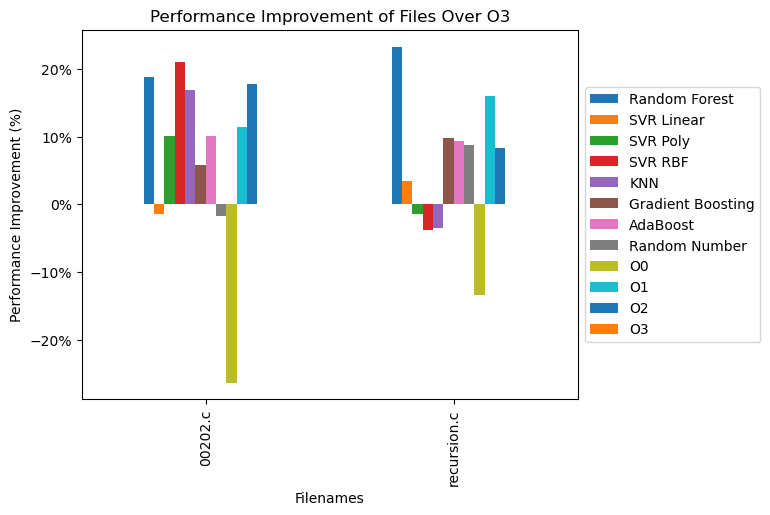
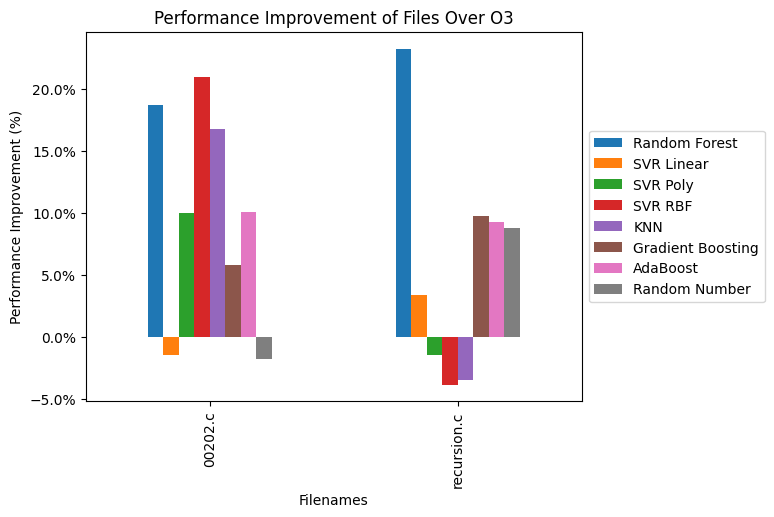
Update visualization script in demo

diff --git a/demo/scripts/visualization_demo.py b/demo/scripts/visualization_demo.py
@@ -9,14 +9,16 @@ os.makedirs("../figures",exist_ok=True)
 path = os.path.join(os.getcwd(), 'results.csv')
 df = pd.read_csv(path)
 figsize = (10, 6)  # Define a variable for the figure size
-include_opts = True  # Include optimization levels in the plots
+include_opts = False  # Include optimization levels in the plots
 
 # Set the index to 'Filename' for easier plotting
-df.set_index('Filename', inplace=True)
+df.set_index('Filename', inplace=True)  
 
 # Plot with filenames as x-axis for raw times
+df2 = df
+df2 = df2.drop(columns=['O0', 'O1', 'O2', 'O3']).iloc[:, :]
 plt.figure(figsize=figsize)  # Use the figure size variable
-df.plot(kind='bar')
+df2.plot(kind='bar')
 plt.xlabel('Filenames')
 plt.ylabel('Raw Times')
 plt.title('Raw Times of Files')
@@ -24,29 +26,20 @@ plt.legend(loc='center left', bbox_to_anchor=(1.0, 0.5))
 plt.savefig('../figures/BarGraph_Files_RawTimes.png', bbox_inches='tight')
 plt.close()
 with open('../figures/BarGraph_Files_RawTimes.md', 'w') as md_file:
-    md_file.write(df.to_markdown())
+    md_file.write(df2.to_markdown())
 
-# Calculate percent change compared to O0, O1, O2, O3 times
-df_o0_o3 = (df.div(df[['O0', 'O1', 'O2', 'O3']].mean(axis=1), axis=0) - 1) * -1
-
-# Calculate mean and median performance improvement for each model
-# Remove the last 4 colums (O0, O1, O2, O3)
-if include_opts:
-    mean_improvement = df_o0_o3.iloc[:, :].mean() * 100
-    median_improvement = df_o0_o3.iloc[:, :].median() * 100
-else:
-    mean_improvement = df_o0_o3.iloc[:, :-4].mean() * 100
-    median_improvement = df_o0_o3.iloc[:, :-4].median() * 100
-
-# Create a new DataFrame for the mean and median improvement
-df_improvement = pd.DataFrame({'Mean': mean_improvement, 'Median': median_improvement})
 
 # Optimization levels to compare against
 optimization_levels = ['O3']
 for opt_level in optimization_levels:
     # Calculate percent change compared to the optimization level
     df_opt = (df.div(df[opt_level], axis=0) - 1) * -1
-
+    
+    if include_opts:
+        df_opt = df_opt.drop(columns=[opt_level]).iloc[:, :]
+    else:
+        df_opt = df_opt.drop(columns=['O0', 'O1', 'O2', 'O3']).iloc[:, :]
+    
     # Calculate percent change compared to O3 times
     plt.figure(figsize=figsize)  # Use the figure size variable
     df_o3 = df_opt * 100
@@ -60,5 +53,33 @@ for opt_level in optimization_levels:
     plt.close()
     with open(f'../figures/BarGraph_Files_{opt_level}.md', 'w') as md_file:
         md_file.write(df_o3.to_markdown())
+        
+    # Remove the optimization level column (O0, O1, O2, O3)
+    if include_opts:
+        mean_improvement = df_opt.drop(columns=[opt_level]).iloc[:, :].mean() * 100
+        median_improvement = df_opt.drop(columns=[opt_level]).iloc[:, :].median() * 100
+    else:
+        mean_improvement = df_opt.iloc[:, :-4].mean() * 100
+        median_improvement = df_opt.iloc[:, :-4].median() * 100
+
+    # Create a new DataFrame for the mean and median improvement
+    df_improvement = pd.DataFrame({'Mean': mean_improvement, 'Median': median_improvement})
+
+    # Plot with ML models as x-axis for mean and median performance improvement
+    plt.figure(figsize=figsize)  # Use the figure size variable
+    df_improvement.plot(kind='bar')
+    plt.xlabel('ML Models')
+    plt.ylabel('Performance Improvement (%)')
+    plt.title(f'Mean and Median Performance Improvement of ML Models Over {opt_level}')
+    plt.gca().yaxis.set_major_formatter(mtick.PercentFormatter()) # Add percent sign to y-axis
+    plt.gca().yaxis.set_minor_locator(mtick.AutoMinorLocator()) # Add minor ticks without labels
+    #plt.grid(True, which='major', axis='y', linestyle='-', color='gray')
+    #plt.gca().set_axisbelow(True)
+    plt.legend(loc='center left', bbox_to_anchor=(1.0, 0.5)) # Move legend outside of plot
+    plt.savefig(f'../figures/Total_Models_Improvement_{opt_level}.png', bbox_inches='tight')
+    plt.close() # Close the figure to save memory
+    # Save the DataFrame as a Markdown table in a separate file (need pip3 install tabulate)
+    with open(f'../figures/Total_Models_Improvement_{opt_level}.md', 'w') as md_file:
+        md_file.write(df_improvement.to_markdown())
 
     

diff --git a/demo/figures/BarGraph_Files_RawTimes.md b/demo/figures/BarGraph_Files_RawTimes.md
@@ -1,4 +1,4 @@
-| Filename    |   Random Forest |   SVR Linear |   SVR Poly |   SVR RBF |      KNN |   Gradient Boosting |   AdaBoost |   Random Number |       O0 |       O1 |       O2 |       O3 |
-|:------------|----------------:|-------------:|-----------:|----------:|---------:|--------------------:|-----------:|----------------:|---------:|---------:|---------:|---------:|
-| 00202.c     |        0.467251 |     0.582944 |   0.517101 |  0.454346 | 0.478234 |            0.5415   |   0.516692 |        0.584796 | 0.725765 | 0.508976 | 0.472981 | 0.574791 |
-| recursion.c |        0.401272 |     0.504996 |   0.530242 |  0.542826 | 0.54105  |            0.471821 |   0.47432  |        0.476882 | 0.593116 | 0.43945  | 0.479333 | 0.522915 |
+| Filename    |   Random Forest |   SVR Linear |   SVR Poly |   SVR RBF |      KNN |   Gradient Boosting |   AdaBoost |   Random Number |
+|:------------|----------------:|-------------:|-----------:|----------:|---------:|--------------------:|-----------:|----------------:|
+| 00202.c     |        0.467251 |     0.582944 |   0.517101 |  0.454346 | 0.478234 |            0.5415   |   0.516692 |        0.584796 |
+| recursion.c |        0.401272 |     0.504996 |   0.530242 |  0.542826 | 0.54105  |            0.471821 |   0.47432  |        0.476882 |

diff --git a/demo/figures/BarGraph_Files_O3.md b/demo/figures/BarGraph_Files_O3.md
@@ -1,4 +1,4 @@
-| Filename    |   Random Forest |   SVR Linear |   SVR Poly |   SVR RBF |      KNN |   Gradient Boosting |   AdaBoost |   Random Number |      O0 |      O1 |       O2 |   O3 |
-|:------------|----------------:|-------------:|-----------:|----------:|---------:|--------------------:|-----------:|----------------:|--------:|--------:|---------:|-----:|
-| 00202.c     |         18.7093 |     -1.41844 |   10.0367  |  20.9546  | 16.7986  |             5.79185 |    10.1078 |        -1.74073 | -26.266 | 11.4502 | 17.7126  |   -0 |
-| recursion.c |         23.2624 |      3.42665 |   -1.40124 |  -3.80769 | -3.46808 |             9.77086 |     9.2931 |         8.80314 | -13.425 | 15.9615 |  8.33439 |   -0 |
+| Filename    |   Random Forest |   SVR Linear |   SVR Poly |   SVR RBF |      KNN |   Gradient Boosting |   AdaBoost |   Random Number |
+|:------------|----------------:|-------------:|-----------:|----------:|---------:|--------------------:|-----------:|----------------:|
+| 00202.c     |         18.7093 |     -1.41844 |   10.0367  |  20.9546  | 16.7986  |             5.79185 |    10.1078 |        -1.74073 |
+| recursion.c |         23.2624 |      3.42665 |   -1.40124 |  -3.80769 | -3.46808 |             9.77086 |     9.2931 |         8.80314 |

diff --git a/demo/figures/Total_Models_Improvement_O3.md b/demo/figures/Total_Models_Improvement_O3.md
@@ -1,0 +1,6 @@
+|               |     Mean |   Median |
+|:--------------|---------:|---------:|
+| Random Forest | 20.9859  | 20.9859  |
+| SVR Linear    |  1.0041  |  1.0041  |
+| SVR Poly      |  4.31771 |  4.31771 |
+| SVR RBF       |  8.57344 |  8.57344 |
